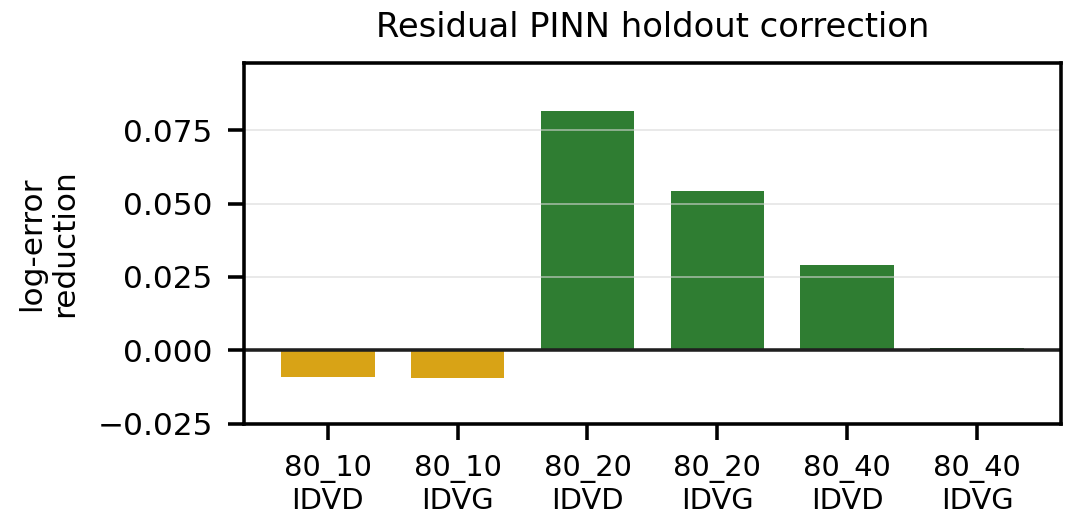
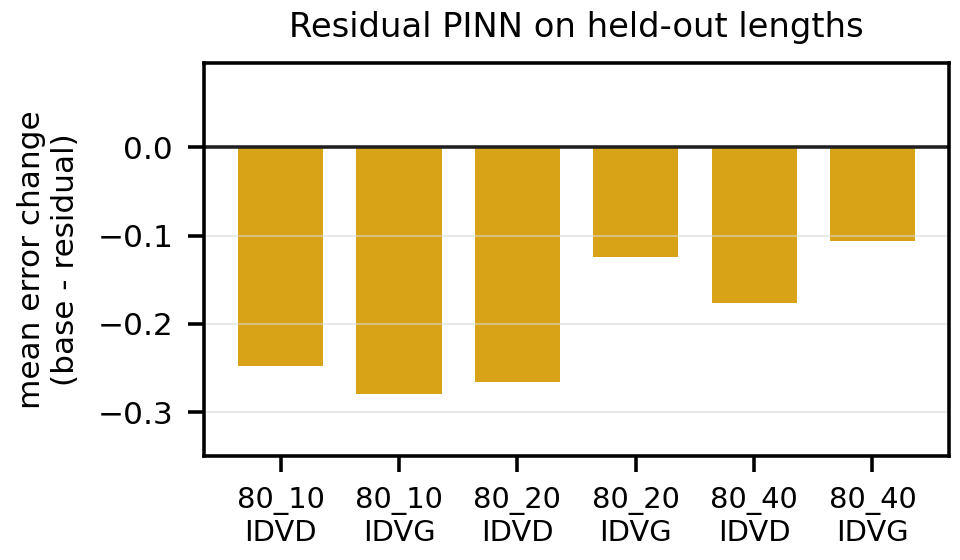
Refine length-only PINN analysis and paper

diff --git a/paper/tft_pinn_compact_modeling.tex b/paper/tft_pinn_compact_modeling.tex
@@ -10,7 +10,7 @@
 \usepackage{url}
 \pagestyle{empty}
 
-\title{PINN-Assisted Compact Modeling and Residual Diagnosis for TFT SPICE Simulation}
+\title{PINN-Assisted Compact Modeling and Residual Diagnosis for IGZO TFT SPICE Simulation}
 
 \author{
 \IEEEauthorblockN{
@@ -29,38 +29,48 @@ and Wei Tang\IEEEauthorrefmark{2}\IEEEauthorrefmark{3}}
 \thispagestyle{empty}
 
 \begin{abstract}
-Thin-film transistor (TFT) compact models are needed for SPICE simulation, but parameter extraction across device dimensions is difficult with limited geometries. This work presents a compact-model-centered PINN-assisted workflow for TFT modeling. A Verilog-A-compatible compact model is implemented in Python and checked against ngspice simulation. Conventional compact fitting establishes the measured-device baseline, and width/length holdout tests expose the limitation of traditional geometry scaling for the smallest channel length. A parameter PINN learns the mapping from device geometry to compact-model parameters, reducing the difficult \(80/10~\mu\mathrm{m}\) holdout error from \(1.54\) to \(0.47\) decade. A residual PINN then identifies bias regions where structured error remains. The results support a practical role for PINNs in TFT SPICE modeling: assisting parameter extraction, improving difficult geometry extrapolation, and guiding compact-model refinement.
+This work presents a compact-model-centered physics-informed neural network (PINN) workflow for indium-gallium-zinc-oxide thin-film transistor (IGZO TFT) SPICE modeling with limited channel lengths. A compact model implemented in Python and Verilog-A establishes the measured-device baseline. A parameter PINN reduces the \(80/10~\mu\mathrm{m}\) holdout error from \(1.54\) to \(0.48\) decade by learning length-dependent compact parameters. A residual PINN identifies structured measured-device error, but over-corrects unseen lengths. These results support PINNs as parameter-extraction and diagnostic aids around a SPICE-compatible IGZO TFT model.
 \end{abstract}
 
 \begin{IEEEkeywords}
-thin-film transistor, compact model, SPICE, PINN, residual modeling, Verilog-A
+IGZO thin-film transistor, compact model, SPICE, physics-informed neural network, residual modeling, Verilog-A
 \end{IEEEkeywords}
 
 \section{Introduction}
-Compact models connect device characterization to circuit simulation and remain central to TFT-based circuit design \cite{lu2018review,nagel1975spice2}. For emerging TFT technologies, the available dataset is often small: a few device geometries, repeated measurements, and several bias sweeps. Independent fits can reproduce measured curves, but circuit design needs a single SPICE-compatible description that remains useful across geometry and bias.
+Compact models connect device characterization to circuit simulation and remain central to TFT-based circuit design \cite{lu2018review,nagel1975spice2}. IGZO TFT datasets are often limited to a few geometries and bias sweeps. Independent fits can reproduce measured curves, but circuit design needs a SPICE-compatible description useful across geometry and bias.
 
-This paper studies a compact-model-centered workflow for three measured TFT geometries, denoted by channel width/length pairs \(80/10\), \(80/20\), and \(80/40~\mu\mathrm{m}\). The workflow follows the idea of physics-informed neural networks, where neural models are constrained or guided by physical or model structure \cite{raissi2019physics}. Here, the compact model remains the simulation layer, while neural modules are used for parameter mapping and residual diagnosis.
+Conventional global compact fitting may fail to extrapolate reliably when only a few channel lengths are measured. Black-box neural current models offer flexible bias-dependent responses, but are not naturally SPICE-compatible and provide limited guidance for improving the underlying compact expression. We therefore retain the compact model as the simulation layer and use neural networks to learn length-dependent parameters and diagnose residual error.
 
-The contributions are threefold. First, a SPICE-compatible TFT compact model is implemented in both Python and Verilog-A/ngspice, and the two implementations are checked for numerical consistency. Second, compact fitting and holdout experiments separate measured-device fitting accuracy from geometry extrapolation accuracy. Third, parameter PINN and residual PINN modules are evaluated around the compact model for geometry-dependent parameter mapping and residual diagnosis.
+We evaluate three measured IGZO TFTs, \(80/10\), \(80/20\), and \(80/40~\mu\mathrm{m}\), using neural models guided by compact-model structure \cite{raissi2019physics}. The contributions are a numerically consistent Python/Verilog-A compact model, holdout experiments separating fitting from length extrapolation, and parameter/residual PINN modules for parameter mapping and diagnosis.
 
 \section{Modeling Workflow}
-The drain current is described by a Verilog-A-compatible compact expression with threshold voltage, current prefactor, mobility-shape exponent, subthreshold factor, channel-length modulation, saturation scale, and off-current terms. The same equations are implemented in Python for fitting and checked against ngspice simulation \cite{ngspice_manual}.
+The drain current uses a custom, Level-1-inspired empirical IGZO TFT compact model rather than a standardized MOSFET level. For \(V_{DS}\geq0\),
+\begin{equation}
+ V_{\mathrm{eff}}=nV_T\ln\!\left[1+\exp\!\left(\frac{V_{GS}-V_{\mathrm{TH}}}{nV_T}\right)\right],
+\end{equation}
+\begin{equation}
+ I_D=\left[I_{\mathrm{OFF}}+\beta\frac{W}{L}V_{\mathrm{eff}}^m
+ \left(1-e^{-|V_{DS}|/V_{DSAT}}\right)\right]
+ \left(1+\lambda|V_{DS}|\right),
+\end{equation}
+where \(V_{DSAT}=V_{\mathrm{SAT0}}V_{\mathrm{eff}}/(V_{\mathrm{SAT0}}+V_{\mathrm{eff}})\). In the global fit, \(V_{\mathrm{TH}}\), \(\log\beta\), and \(\lambda\) vary affinely with \(1/L\), \(\log I_{\mathrm{OFF}}\) varies with \(\log(W/L)\), and other parameters are shared. The same equations are used in Python and Verilog-A/ngspice \cite{ngspice_manual}.
 
-The measured dataset contains output curves \(I_D\)-\(V_D\) and transfer curves \(I_D\)-\(V_G\) for the three geometries. The loss is evaluated in log-current space,
+All measured devices have \(W=80~\mu\mathrm{m}\), with \(L=10\), \(20\), and \(40~\mu\mathrm{m}\). After averaging repeated sweeps, the dataset contains 2525 points: 404 output-curve points per device and 505, 404, and 404 transfer-curve points, respectively. The \(80/10\) holdout uses 1616 training and 909 test points; the other holdouts use 1717 and 808. Both curve types are present in every split. The loss is evaluated in log-current space,
 \begin{equation}
     \mathcal{L}_{I} = \frac{1}{N}\sum_i
-    \left|\log_{10}(I_{D,i}^{\mathrm{fit}}+I_0)
-    - \log_{10}(I_{D,i}^{\mathrm{meas}}+I_0)\right|,
+    \left[\log_{10}(|I_{D,i}^{\mathrm{fit}}|+I_0)
+    - \log_{10}(|I_{D,i}^{\mathrm{meas}}|+I_0)\right]^2,
 \end{equation}
 where \(I_0\) is a small numerical floor.
+Networks are trained with the squared log-current loss in (3), whereas Table~\ref{tab:holdout} reports mean absolute log-current error in decades.
 
-Fig.~\ref{fig:workflow} summarizes the workflow. Conventional fitting extracts compact parameters directly. The parameter PINN maps \((\log W,\log L)\) to compact-model parameters with current loss and smoothness regularization. The residual PINN keeps the parameter-PINN current as a baseline and learns a bounded correction in log-current space,
+Because \(W\) is constant, the parameter PINN maps \((\log_{10}L-\log_{10}20)/0.35\) to seven bounded compact parameters. It uses one four-neuron Tanh layer, 8000 AdamW epochs, and 300 L-BFGS steps. Log-current, linear-current, weight-decay, and length-smoothness loss weights are \(1\), \(0.04\), \(0.001\), and \(0.02\); the best of seeds 3, 17, and 41 is retained. The residual PINN learns
 \begin{equation}
     \log_{10} I_D^{\mathrm{res}} =
     \log_{10} I_D^{\mathrm{base}} +
-    r_{\theta}(V_G,V_D,\log W,\log L).
+    r_{\theta}(V_G,V_D,\log L).
 \end{equation}
-The residual model is used mainly for diagnosis: the spatial distribution of \(r_\theta\) indicates where the compact description leaves systematic error.
+The residual model uses two 12-neuron Tanh layers, normalized \((V_G,V_D,\log L)\), 6000 AdamW epochs, 200 L-BFGS steps, and the same seeds.
 
 \begin{figure}[t]
 \centering
@@ -88,10 +98,10 @@ The residual model is used mainly for diagnosis: the spatial distribution of \(r
     },
     arrow/.style={-{Latex[length=2mm]}, thick}
 ]
-\node[centerblock] (compact) {SPICE-compatible\\TFT compact model};
-\node[block, above=4mm of compact] (data) {Measured TFT\\$I_D$--$V_D$, $I_D$--$V_G$};
+\node[centerblock] (compact) {SPICE-compatible\\IGZO TFT compact model};
+\node[block, above=4mm of compact] (data) {Measured IGZO TFT\\$I_D$--$V_D$, $I_D$--$V_G$};
 \node[block, left=5mm of compact] (fit) {Conventional\\compact fitting};
-\node[block, right=5mm of compact] (pinn) {Parameter PINN\\Geometry $\rightarrow$ parameters};
+\node[block, right=5mm of compact] (pinn) {Parameter PINN\\$L \rightarrow$ parameters};
 \node[block, below=4mm of compact] (res) {Residual PINN\\bias-region diagnosis};
 \node[block, below=4mm of fit] (spice) {Verilog-A/ngspice\\consistency check};
 
@@ -102,22 +112,22 @@ The residual model is used mainly for diagnosis: the spatial distribution of \(r
 \draw[arrow] (compact) -- (spice);
 \end{tikzpicture}%
 }
-\caption{Compact-model-centered workflow. Measured TFT structures are fitted with a SPICE-compatible compact model, then analyzed by parameter and residual PINN modules for geometry-dependent parameter mapping and bias-region diagnosis.}
+\caption{Compact-model-centered IGZO TFT workflow for SPICE-compatible fitting, length-dependent parameter mapping, and residual diagnosis.}
 \label{fig:workflow}
 \end{figure}
 
-\section{Results}
+\section{Results and Discussion}
 \subsection{Measured-device compact fitting}
-Independent compact fitting gives mean absolute log errors of \(0.06\)--\(0.19\) decade on measured devices. The fitted Python model and Verilog-A/ngspice implementation agree to below \(10^{-3}\) decade on average, confirming transferability to the circuit simulator. This result establishes that the compact expression can describe the measured output and transfer curves when each geometry is fitted separately.
+Independent fitting gives mean absolute log errors of \(0.06\)--\(0.19\) decade. Python and Verilog-A/ngspice agree below \(10^{-3}\) decade on average, confirming simulator transferability.
 
-\subsection{Traditional width/length extrapolation}
-The main difficulty appears in geometry extrapolation. A global conventional width/length fit gives a mean holdout error of \(1.54\) decade for the \(80/10~\mu\mathrm{m}\) device, while the other two holdout geometries remain below \(0.27\) decade. Enlarging the allowable subthreshold factor improves the measured-device fit; explicit source/drain resistance fitting gives no consistent gain for the present dataset.
+\subsection{Traditional channel-length extrapolation}
+A global conventional fit gives a \(1.54\)-decade holdout error for \(80/10~\mu\mathrm{m}\), while the other lengths remain below \(0.27\) decade. The shortest channel lies at the data boundary, where \(1/L\) scaling is least constrained. Enlarging the subthreshold-factor range improves fitting; explicit source/drain resistance gives no consistent gain.
 
 \subsection{Parameter PINN for compact parameters}
-The parameter PINN improves the difficult \(80/10~\mu\mathrm{m}\) holdout case. Table~\ref{tab:holdout} averages output and transfer errors for each held-out geometry. The \(80/10~\mu\mathrm{m}\) error is reduced from \(1.54\) to \(0.47\) decade, while the conventional fit remains competitive for the other two sizes.
+Table~\ref{tab:holdout} averages output and transfer errors. The PINN reduces the poorly constrained \(80/10~\mu\mathrm{m}\) boundary holdout to \(0.48\) decade, while conventional scaling remains competitive for the other lengths. Thus, neural parameterization helps the difficult boundary case but is not universally superior.
 
 \begin{table}[t]
-\caption{Mean absolute log-current error in width/length holdout tests.}
+\caption{Mean absolute log-current error in channel-length holdout tests.}
 \label{tab:holdout}
 \centering
 \begin{tabular}{lccc}
@@ -125,35 +135,35 @@ The parameter PINN improves the difficult \(80/10~\mu\mathrm{m}\) holdout case. 
 Model & \(80/10\) & \(80/20\) & \(80/40\) \\
 \midrule
 Global compact fit & 1.543 & 0.213 & 0.269 \\
-Parameter PINN & 0.467 & 0.337 & 0.314 \\
+Parameter PINN & 0.482 & 0.329 & 0.346 \\
 \bottomrule
 \end{tabular}
 \end{table}
 
 \begin{figure}[t]
 \centering
-\includegraphics[width=0.72\linewidth]{figures/representative_80_10_holdout_idvd.png}
-\caption{Representative \(80/10~\mu\mathrm{m}\) holdout curve at \(V_G=1\) V. The parameter PINN follows the measured output curve more closely than the global compact fit.}
+\includegraphics[width=0.74\linewidth]{figures/representative_80_10_holdout_curves.png}
+\caption{Representative output and transfer curves for the \(80/10~\mu\mathrm{m}\) channel-length holdout. The parameter PINN follows both measured curves more closely than the global compact fit.}
 \label{fig:wl}
 \end{figure}
 
 \subsection{Residual PINN for diagnosis}
-The residual PINN is evaluated as a diagnostic and local-correction layer on top of the parameter-PINN baseline, and its results are reported separately from the width/length ranking in Table~\ref{tab:holdout}. It reduces the average pointwise holdout error for \(80/20\) and \(80/40~\mu\mathrm{m}\), and only slightly changes \(80/10~\mu\mathrm{m}\). For \(80/20~\mu\mathrm{m}\), the output-curve error decreases from \(0.172\) to \(0.091\) decade and the transfer-curve error from \(0.162\) to \(0.108\) decade.
+The residual PINN is evaluated separately as a diagnostic and local-correction layer on top of the parameter-PINN baseline. On measured devices it reduces curve-level mean log error by \(32.5\%\)--\(81.9\%\), confirming that structured bias-dependent residuals remain after parameter mapping. However, true held-out-length tests worsen for all six device/curve combinations. The correction magnitude rises to \(0.30\)--\(0.73\) decade on unseen lengths, showing that the learned residual patterns do not extrapolate reliably.
 
 \begin{figure}[t]
 \centering
 \begin{tabular}{cc}
-\includegraphics[width=0.48\linewidth]{figures/residual_holdout_curve_reduction.png} &
-\includegraphics[width=0.48\linewidth]{figures/residual_holdout_bias_heatmap.png}
+\includegraphics[height=0.095\textheight]{figures/residual_holdout_curve_reduction.png} &
+\includegraphics[height=0.095\textheight]{figures/residual_holdout_bias_heatmap.png}
 \end{tabular}
-\caption{Residual PINN diagnostics on holdout data. Positive values indicate lower log-current error after residual correction; local over-correction remains visible in selected subsets.}
+\caption{Residual PINN diagnosis. Values are baseline minus residual-model mean absolute log error, so positive values indicate improvement. All held-out device/curve averages are negative (left), while measured-data bias regions show correctable residuals (right).}
 \label{fig:residual}
 \end{figure}
 
-Bias-region analysis gives the clearest interpretation. Averaged over holdout devices, all regions except low-\(V_G\)/mid-\(V_D\) improve after residual correction. The strongest improvements occur in mid-\(V_G\)/mid-\(V_D\), mid-\(V_G\)/high-\(V_D\), and low-\(V_G\)/high-\(V_D\) regions. Device-resolved failures concentrate in high-\(V_G\)/mid-\(V_D\) output curves of \(80/10~\mu\mathrm{m}\), high-\(V_G\)/low-to-mid-\(V_D\) transfer curves of \(80/10~\mu\mathrm{m}\), and low-\(V_G\)/low-to-mid-\(V_D\) transfer curves of \(80/40~\mu\mathrm{m}\). These regions suggest possible missing descriptions in high-gate-bias linear operation, low-current transfer behavior, or geometry-dependent scaling.
+Bias-region analysis gives the clearest interpretation. On measured devices, the largest corrections occur in low-\(V_G\)/high-\(V_D\), high-\(V_G\)/low-\(V_D\), and mid-\(V_G\)/low-\(V_D\) regions, suggesting missing descriptions in low-current transfer behavior and high-field operation. Their failure to transfer across \(L\) means these patterns are candidate compact-model deficiencies rather than established physical mechanisms. The residual network is therefore useful for locating where the compact expression should be refined, but not as an extrapolative SPICE layer.
 
 \section{Conclusion}
-A compact-model-centered PINN workflow was evaluated for TFT SPICE modeling with limited measured geometries. Conventional compact fitting provides accurate measured-device fits and simulator-compatible parameters, but width/length extrapolation can fail for the smallest channel length. A parameter PINN improves the difficult geometry holdout through smooth dimension-dependent compact parameters. A residual PINN maps remaining structured error and is best used as a diagnostic layer before conversion into explicit compact-model terms. Future work will extend the geometry set and test whether residual patterns can be translated into SPICE model terms for high-gate-bias and low-current operation. Processed data and paper-generation files are available at \url{https://github.com/Yang-Fran/tft-pinn-compact-modeling}.
+The compact-model-centered workflow preserves SPICE compatibility while improving the shortest-channel holdout through length-dependent PINN parameters. Residual patterns expose candidate compact-model deficiencies but do not extrapolate reliably. Future work will add width variation and translate robust residual patterns into explicit model terms. Data and paper-generation files are available at \url{https://github.com/Yang-Fran/tft-pinn-compact-modeling}.
 
 \bibliographystyle{IEEEtran}
 \bibliography{references}

diff --git a/README.md b/README.md
@@ -3,7 +3,7 @@
 This folder contains the lightweight data and manuscript files supporting the paper:
 
 ```text
-PINN-Assisted Compact Modeling and Residual Diagnosis for TFT SPICE Simulation
+PINN-Assisted Compact Modeling and Residual Diagnosis for IGZO TFT SPICE Simulation
 ```
 
 The artifact is intentionally small. It includes summary tables and paper figures, but does not include large intermediate pointwise prediction files or trained neural-network weights.
@@ -19,9 +19,7 @@ artifact/tft_pinn_modeling/
     residual_interpretability_by_curve.csv
     residual_interpretability_bias_overall.csv
   figures/
-    representative_80_10_holdout_idvd.png
-    traditional_wl_holdout.png
-    param_pinn_wl_holdout.png
+    representative_80_10_holdout_curves.png
     residual_holdout_curve_reduction.png
     residual_holdout_bias_heatmap.png
   paper/
@@ -31,17 +29,15 @@ artifact/tft_pinn_modeling/
 
 ## Data Files
 
-- `measurements_summary.csv`: summary of the measured TFT dataset.
-- `wl_holdout_summary.csv`: traditional global compact-model width/length holdout results.
-- `torch_pinn_wl_holdout_summary.csv`: parameter PINN width/length holdout results.
+- `measurements_summary.csv`: summary of the measured IGZO TFT dataset.
+- `wl_holdout_summary.csv`: traditional global compact-model channel-length holdout results.
+- `torch_pinn_wl_holdout_summary.csv`: length-only parameter PINN holdout results.
 - `residual_interpretability_by_curve.csv`: residual PINN curve-level interpretation table.
 - `residual_interpretability_bias_overall.csv`: residual PINN bias-region interpretation table.
 
 ## Figures
 
-- `representative_80_10_holdout_idvd.png`: representative \(80/10~\mu\mathrm{m}\) holdout curve comparing measurement, global compact fit, and parameter PINN.
-- `traditional_wl_holdout.png`: conventional global compact-model W/L holdout summary.
-- `param_pinn_wl_holdout.png`: parameter PINN W/L holdout summary.
+- `representative_80_10_holdout_curves.png`: representative output and transfer holdout curves comparing measurement, global compact fit, and parameter PINN.
 - `residual_holdout_curve_reduction.png`: residual PINN curve-level error reduction.
 - `residual_holdout_bias_heatmap.png`: residual PINN bias-region diagnostic heatmap.
 
@@ -52,8 +48,8 @@ The full project contains scripts for:
 - measured data preparation,
 - compact-model fitting,
 - ngspice consistency checks,
-- traditional W/L scaling,
-- PyTorch parameter PINN training,
+- traditional channel-length scaling,
+- length-only PyTorch parameter PINN training,
 - residual PINN training,
 - residual interpretability analysis.
 